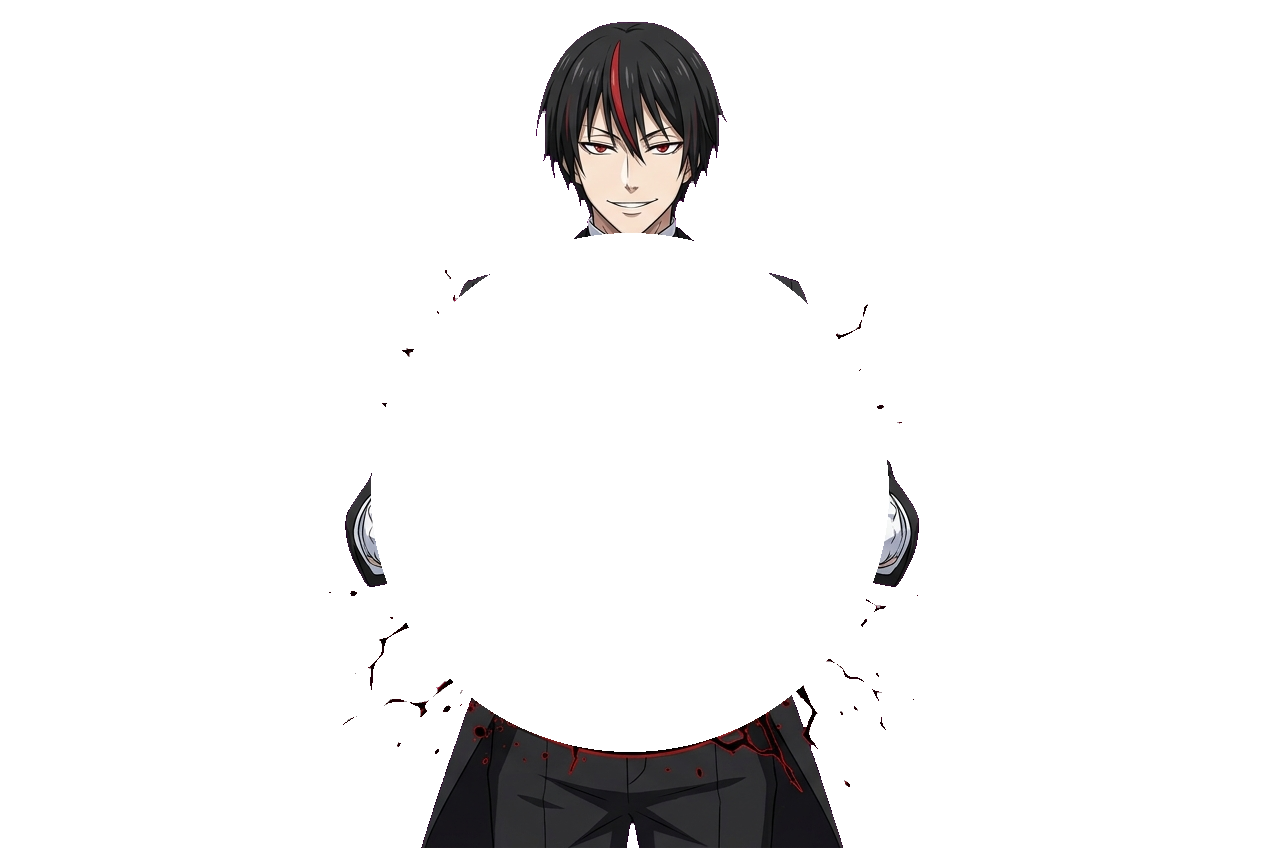
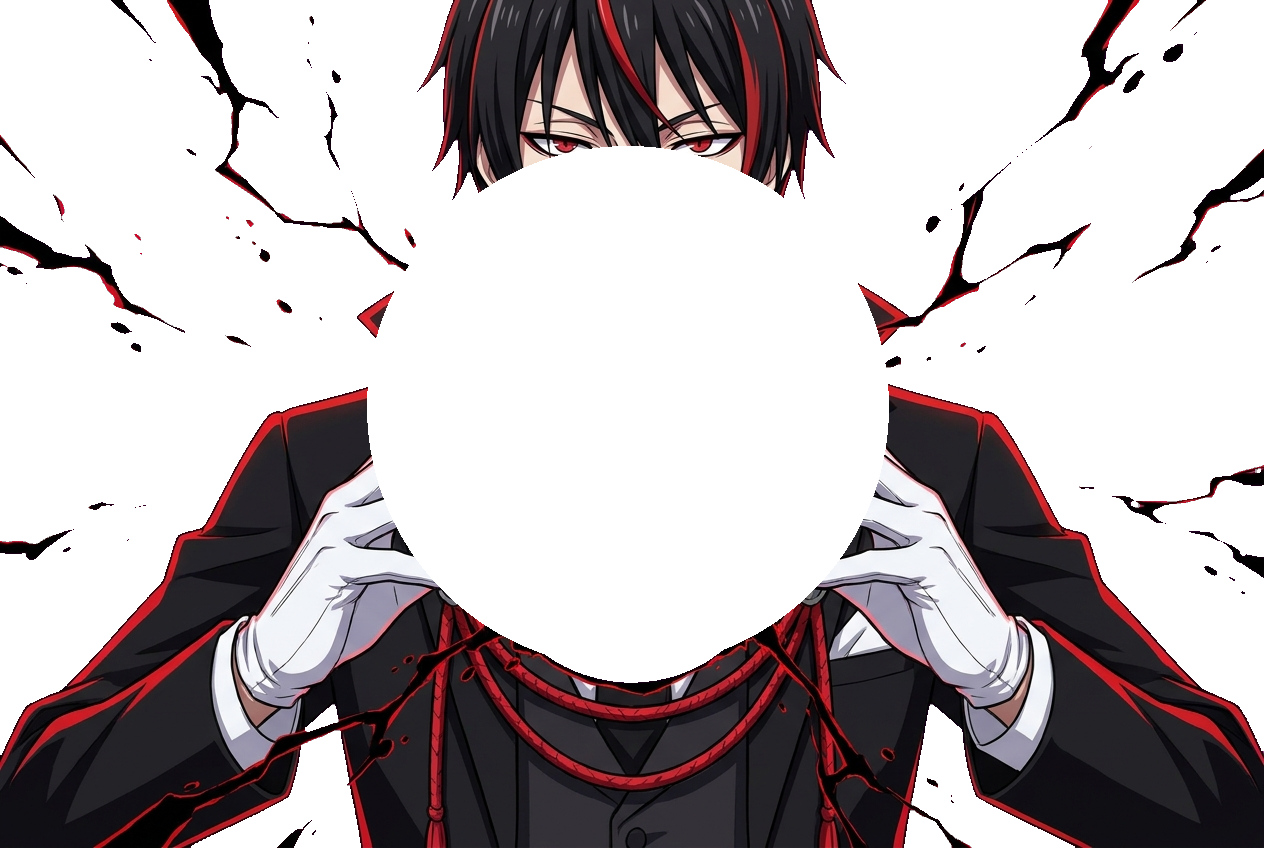
L28: ディアブロを胸元の小さな円を抱える構図に作り直し（顔が輪に隠れない）。黒背景の画像は明るさを透明度に変換して透過に（ボタン内の黒い四角を解消）
Claude-Session: https://claude.ai/code/session_013ZeVe9ZYdh8wpCZVceWgfn

diff --git a/App/Sources/DesignSystem/Theme.swift b/App/Sources/DesignSystem/Theme.swift
@@ -277,8 +277,8 @@ enum ThemeAssets {
             return Loaded(image: image, blend: .opaque)
         }
         if corner.r < 0.12 && corner.g < 0.12 && corner.b < 0.12 {
-            // 黒背景：暗いテーマなら screen で黒を透かす。明るいテーマでは screen が効かないので明るさを不透明度にする
-            if ThemeStore.shared.theme.isLight, let keyed = luminanceKeyed(image) { return Loaded(image: keyed, blend: .keyed) }
+            // 黒背景：明るさを不透明度に変換して透過画像にする（screen 合成はボタンの中など別レイヤーでは効かないため使わない）
+            if let keyed = luminanceKeyed(image) { return Loaded(image: keyed, blend: .keyed) }
             return Loaded(image: image, blend: .screen)
         }
         return Loaded(image: image, blend: .opaque)
